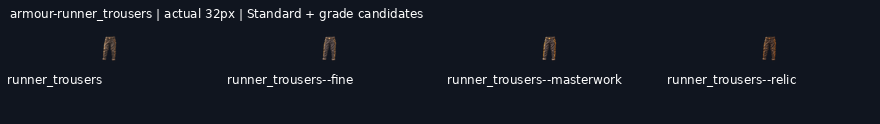
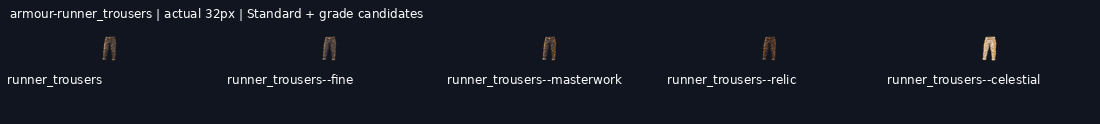
art: draw armour-runner_trousers--celestial grade candidate

diff --git a/art/_archive/gear/2026-11-19-kept-blade-grades/HANDOFF.md b/art/_archive/gear/2026-11-19-kept-blade-grades/HANDOFF.md
@@ -1,17 +1,17 @@
 # Gear grade candidates
 
-**92/120 grade candidates delivered** on `art/2026-11-19-kept-blade-grades`. Shared mailbox: https://github.com/leonpentastorm/Project-Heaven-Cry/issues/3 . See claim.json for this lane’s current Standards. Released overlapping blades reuse12 peer candidates, with3 local alternatives archived.
+**93/120 grade candidates delivered** on `art/2026-11-19-kept-blade-grades`. Shared mailbox: https://github.com/leonpentastorm/Project-Heaven-Cry/issues/3 . See claim.json for this lane’s current Standards. Released overlapping blades reuse12 peer candidates, with3 local alternatives archived.
 
 Leon requested continuous candidate production; proof approval is not fabricated. All candidates remain review-candidate, production_approved:false, implementation_ready:false, with outline.review_required:true. Exact outline is measured, never asserted unless the masks match. Per-image registration is uniform scaling/translation only, without warp, silhouette masks, filled pixels or code-drawn substitutes. The generated native remains untouched.
 
 Each image is generated, shown, technically exported, validated, committed and pushed before the next. Sources, versioned masters, exact prompts/reference hashes,256/128/64/32 exports and grade comparison sheets are retained. Standards and earlier deliveries are unchanged. This sparse checkout cannot validate omitted historical files; full-library validation/build is an integration check on a full checkout.
 
-Remaining: weapon-ork_machete--masterwork, weapon-ork_machete--relic, weapon-ork_machete--celestial, weapon-war_axe--fine, weapon-war_axe--masterwork, weapon-war_axe--relic, weapon-war_axe--celestial, armour-runner_trousers--celestial, armour-armoured_greaves--fine, armour-armoured_greaves--masterwork, armour-armoured_greaves--relic, armour-armoured_greaves--celestial, armour-work_gloves--fine, armour-work_gloves--masterwork, armour-work_gloves--relic, armour-work_gloves--celestial, armour-combat_gloves--fine, armour-combat_gloves--masterwork, armour-combat_gloves--relic, armour-combat_gloves--celestial, armour-field_boots--fine, armour-field_boots--masterwork, armour-field_boots--relic, armour-field_boots--celestial, armour-heavy_boots--fine, armour-heavy_boots--masterwork, armour-heavy_boots--relic, armour-heavy_boots--celestial.
+Remaining: weapon-ork_machete--masterwork, weapon-ork_machete--relic, weapon-ork_machete--celestial, weapon-war_axe--fine, weapon-war_axe--masterwork, weapon-war_axe--relic, weapon-war_axe--celestial, armour-armoured_greaves--fine, armour-armoured_greaves--masterwork, armour-armoured_greaves--relic, armour-armoured_greaves--celestial, armour-work_gloves--fine, armour-work_gloves--masterwork, armour-work_gloves--relic, armour-work_gloves--celestial, armour-combat_gloves--fine, armour-combat_gloves--masterwork, armour-combat_gloves--relic, armour-combat_gloves--celestial, armour-field_boots--fine, armour-field_boots--masterwork, armour-field_boots--relic, armour-field_boots--celestial, armour-heavy_boots--fine, armour-heavy_boots--masterwork, armour-heavy_boots--relic, armour-heavy_boots--celestial.
 
 Service-rejected requests (do not repeatedly resubmit): weapon-ork_machete--masterwork, weapon-war_axe--fine.
 
 Waiting on rejected prerequisites: weapon-ork_machete--celestial, weapon-ork_machete--relic, weapon-war_axe--celestial, weapon-war_axe--masterwork, weapon-war_axe--relic.
 
-Ready independent next steps, in queue order: armour-runner_trousers--celestial, armour-armoured_greaves--fine, armour-work_gloves--fine, armour-combat_gloves--fine, armour-field_boots--fine, armour-heavy_boots--fine. Other pending grades follow their preceding grade.
+Ready independent next steps, in queue order: armour-armoured_greaves--fine, armour-work_gloves--fine, armour-combat_gloves--fine, armour-field_boots--fine, armour-heavy_boots--fine. Other pending grades follow their preceding grade.
 
 Runtime handoff: implementation_ready:false records review status but does not gate the web asset builder. The builder emits grade asset keys; the current UI gear resolver still needs grade-aware selection. Do not claim that runtime grade selection is implemented by these art deliveries.
